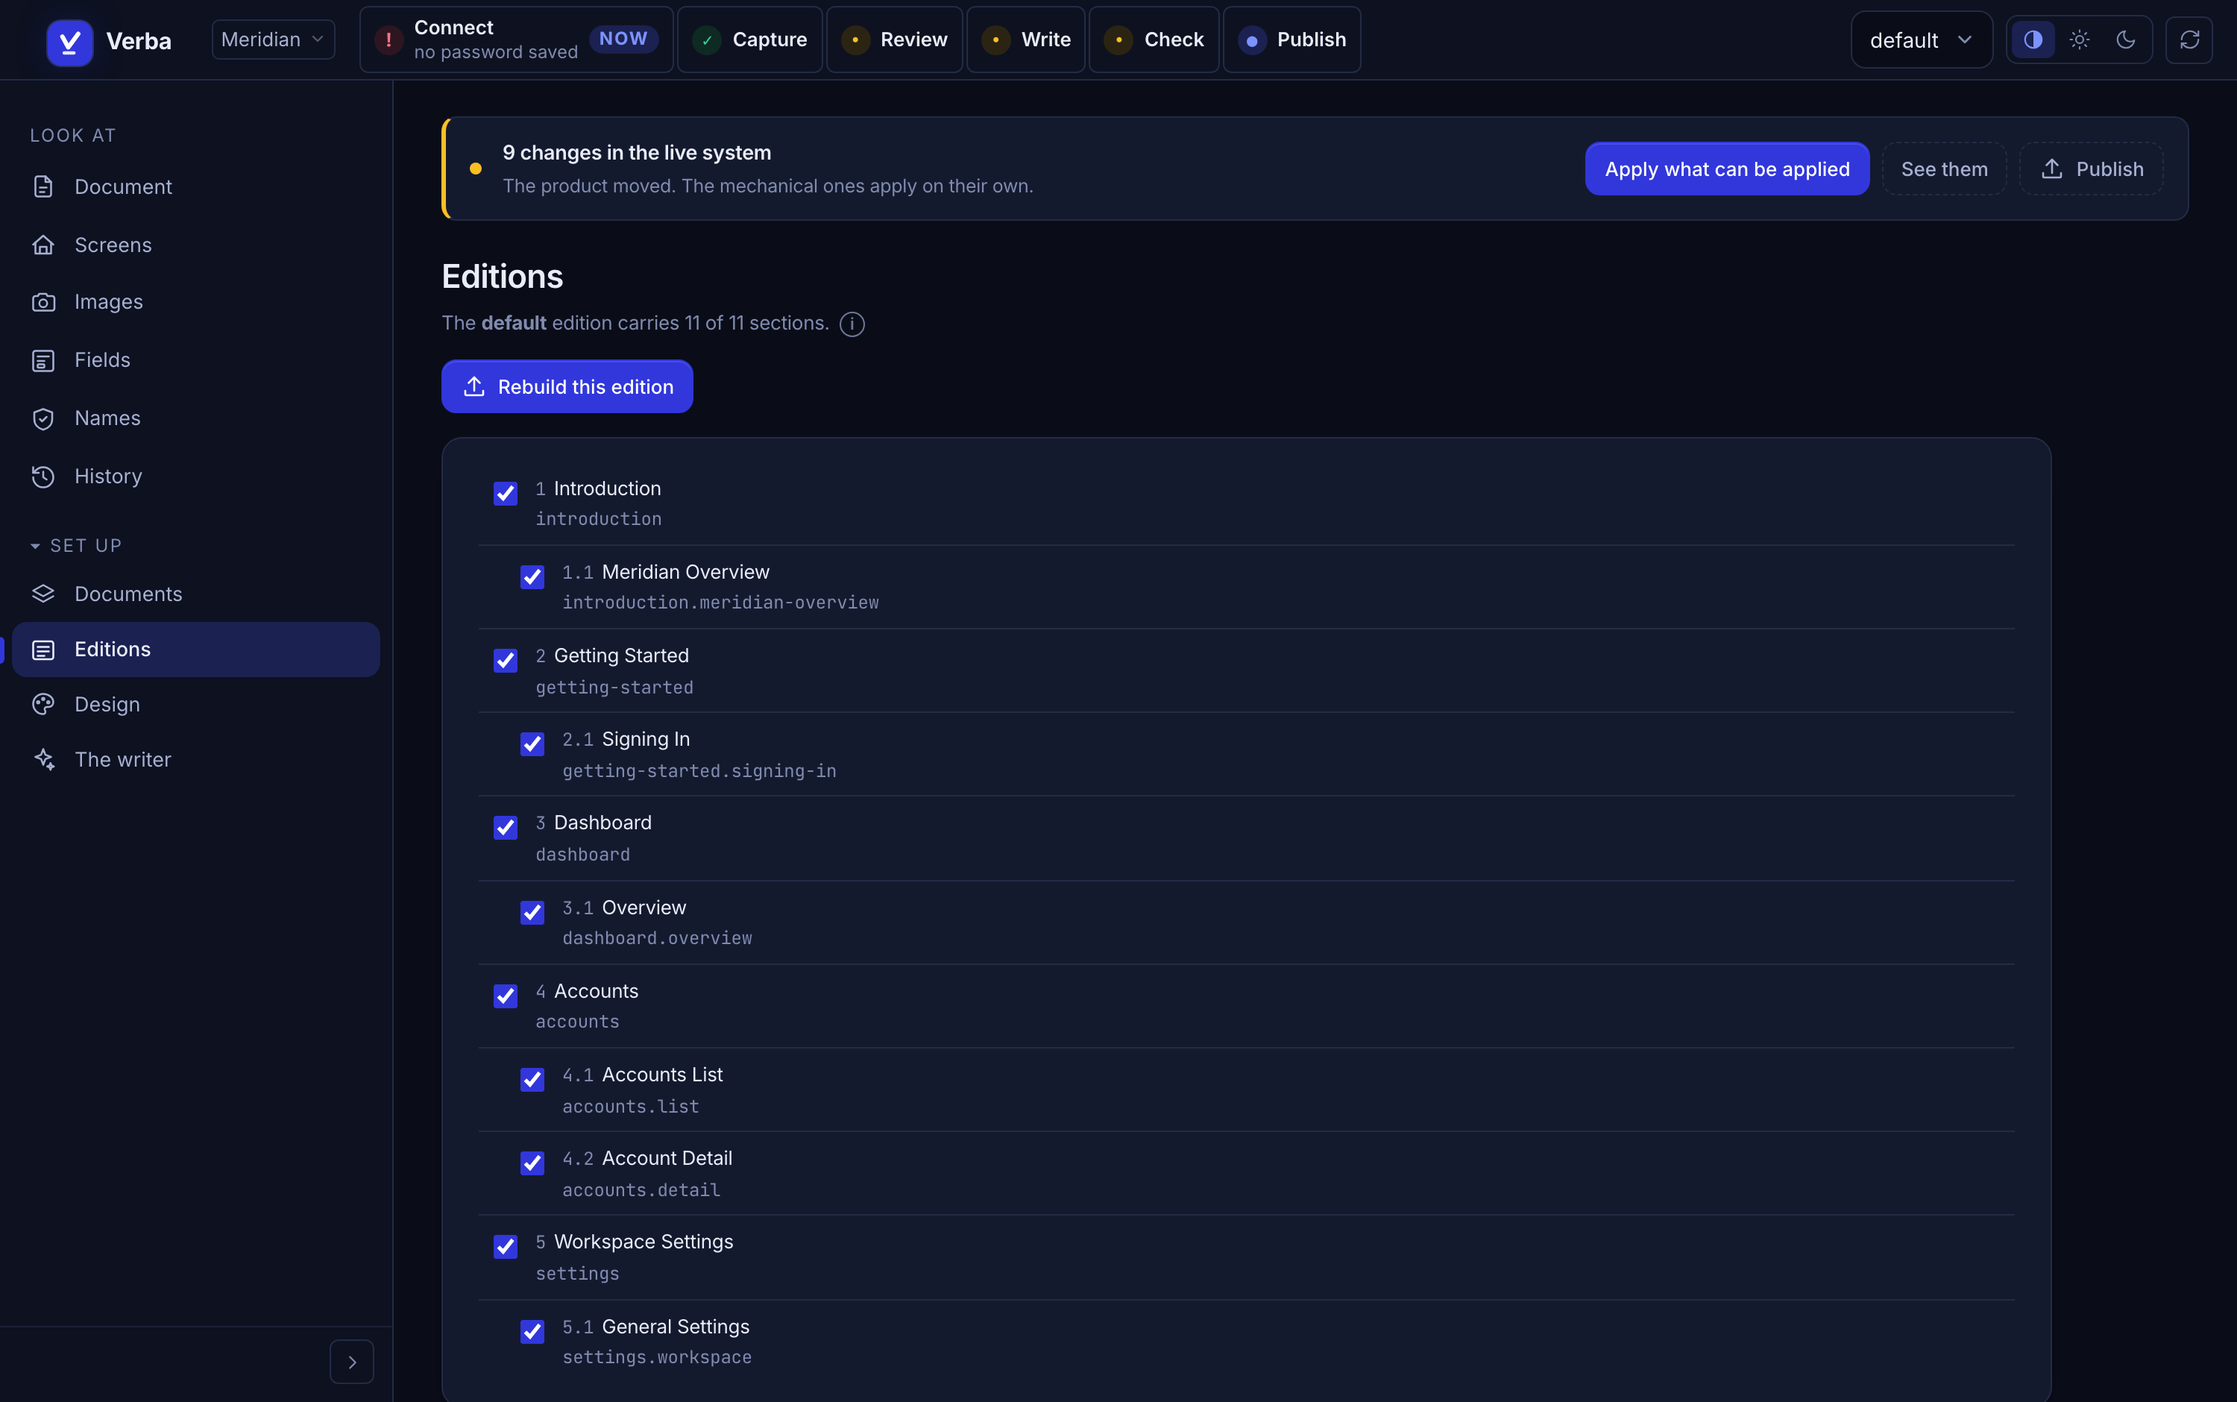
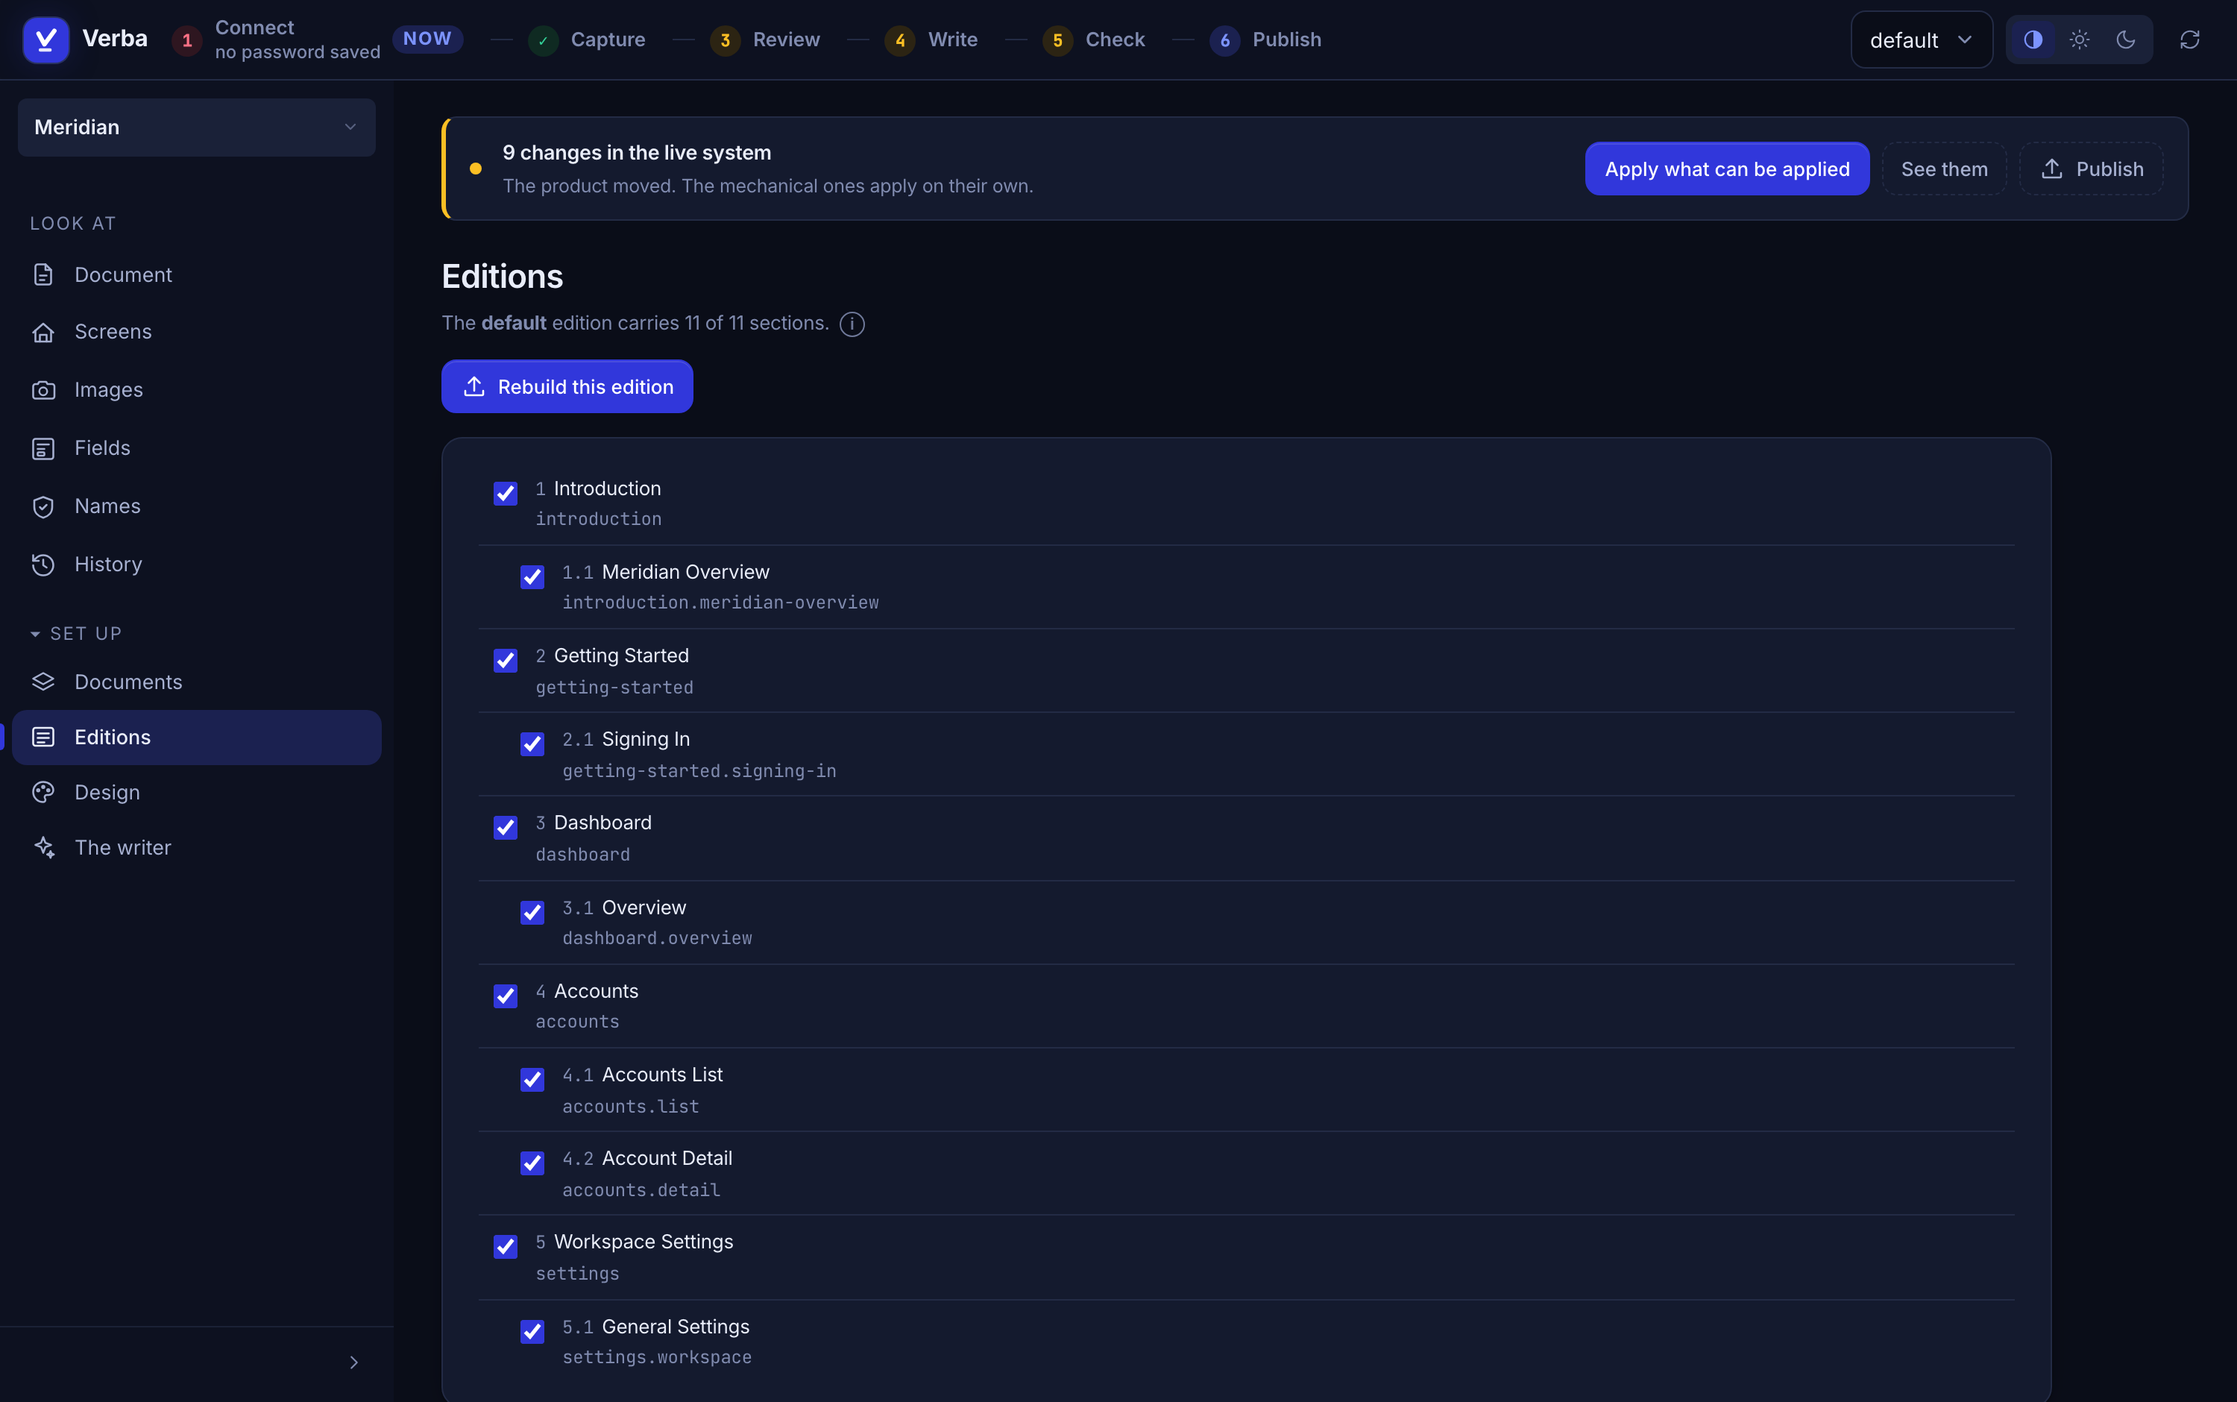
The header is a stepper, and most of the lines are gone
Four goes at the process nav before asking. Six bordered pills read as six
boxes; one bordered track round all six read as chrome. Both were the same
mistake, which is reaching for a container to say "these are controls" when the
content can say it instead.

A stepper says it. A tick for what is done, a number for what is not, joined by
a line: the marks say how far along you are and the line says these are in an
order, both of which are true and neither of which needs a border.

Borders were being spent on everything: the step track, the document button,
every icon button, the appearance control, inside a header that was itself
outlined, beside a rail that was outlined. They now separate the regions that
genuinely are separate, and small controls use a filled surface.

Three bugs found while doing it, all of them mine:

`#docTitle` still carried the styling from when the switcher lived in the
masthead. An id beats any number of classes, so it silently overrode the rail
styling and the rule that hides the switcher when the rail is folded, which is
why "Rise" was leaking out of a 46px strip.

`.brand` was the rail's rule, with the rail's 16px padding, making the header's
brand 58px tall inside a 54px bar.

And every `.app.folded` rule was written for a rail that carried the brand and
the process. They reach into the header now, which is why folding stacked the
appearance buttons vertically and wrapped the wordmark. Scoped to the rail.
[…]

Changed region(s): [[0.0, 0.0, 0.589, 0.0617], [0.0, 0.4011, 0.186, 0.617], [0.0, 0.1234, 0.062, 0.3702]]

diff --git a/verba/console/static/app.css b/verba/console/static/app.css
@@ -159,7 +159,9 @@ aside {
   min-height: 0; min-width: 0;
 }
 
-.brand {
+/* The rail's old brand block. The header has its own, and this padding was
+   making it 58px tall inside a 54px bar. */
+aside .brand {
   display: flex; align-items: center; gap: var(--s3);
   padding: var(--s4) var(--s4) var(--s3);
 }
@@ -650,8 +652,8 @@ aside { position: relative; }
 .brand .fold:hover { color: var(--brand-lift); background: var(--panel); }
 .brand .fold .ic { transition: rotate 200ms var(--ease); }
 
-.app.folded { grid-template-columns: 56px minmax(0, 1fr); }
-.app.folded .brand .who,
+/* superseded below: folding now leaves a 46px strip carrying the way back */
+aside.folded-none,
 .app.folded .edition,
 .app.folded .tree,
 .app.folded .nav button span,
@@ -661,12 +663,12 @@ aside { position: relative; }
    fold button to the top right corner puts it straight on top of the logo,
    because there is no corner left to pin it to. Stack instead: mark, then the
    control beneath it. */
-.app.folded .brand {
+aside .brand-unused {
   flex-direction: column; gap: var(--s2);
   padding: var(--s3) 0 var(--s2); justify-content: center;
 }
-.app.folded .brand .fold { position: static; margin: 0; }
-.app.folded .brand .fold .ic { rotate: 180deg; }
+aside .brand-unused .fold { position: static; margin: 0; }
+aside .brand-unused .fold .ic { rotate: 180deg; }
 .app.folded .nav { padding: 0 var(--s2) var(--s3); }
 .app.folded .nav button { justify-content: center; padding: 9px 0; }
 .app.folded .nav button.on::before { left: -8px; }
@@ -879,8 +881,6 @@ label:has(> input[type="checkbox"]) {
    Which system you are documenting. A document is a folder; this is the list of
    where they are. */
 .modal.wide{max-width:620px}
-#docTitle{cursor:pointer}
-#docTitle:hover{color:var(--text)}
 .docs{display:flex;flex-direction:column;gap:6px;margin-top:14px;
   max-height:340px;overflow-y:auto}
 .docrow{display:flex;align-items:center;gap:12px;width:100%;text-align:left;
@@ -900,16 +900,6 @@ label:has(> input[type="checkbox"]) {
 /* the document switcher in the masthead: a control, not a caption */
 /* One line, and it must stay one line: a product name wrapping under its own
    section count reads as two broken labels rather than one control. */
-#docTitle{display:flex;align-items:center;gap:5px;cursor:pointer;
-  padding:2px 5px;margin-left:-5px;border-radius:5px;min-width:0;
-  white-space:nowrap;overflow:hidden;
-  transition:background var(--fast),color var(--fast)}
-#docTitle .dnow{overflow:hidden;text-overflow:ellipsis}
-#docTitle:hover,#docTitle:focus-visible{background:var(--brand-soft);color:var(--text)}
-#docTitle .dnow{font-weight:600;color:var(--text-2)}
-#docTitle .dsep{opacity:.5}
-.dchev{width:12px;height:12px;flex:none;opacity:.7;margin-left:1px}
-#docTitle:hover .dchev{opacity:1}
 /* in the full view each row carries its own actions */
 .docrow .row{margin-left:auto;flex:none;gap:6px}
 
@@ -943,8 +933,8 @@ label:has(> input[type="checkbox"]) {
   text-transform:uppercase;letter-spacing:.09em;color:var(--brand-lift);
   background:var(--brand-soft);padding:1px 7px;border-radius:20px;line-height:1.4}
 /* the folded rail: numbers only, still in order */
-.app.folded .stepbody,.app.folded .younow{display:none}
-.app.folded .nav .step{justify-content:center;padding:8px 0}
+.app.folded aside .stepbody,.app.folded aside .younow{display:none}
+.app.folded aside .nav .step{justify-content:center;padding:8px 0}
 
 /* a small labelled grid, for "what the last capture found" */
 /* Two columns at most. Four label-and-value pairs strung across one row read
@@ -966,7 +956,7 @@ label:has(> input[type="checkbox"]) {
 .scheme button:hover{color:var(--text-2);background:var(--panel-2)}
 .scheme button.on{background:var(--brand-soft);color:var(--brand-lift)}
 .scheme svg{width:15px;height:15px}
-.app.folded .scheme{flex-direction:column}
+/* the appearance control lives in the header now, and the header does not fold */
 
 /* the palette the document prints in */
 .themes{display:grid;grid-template-columns:repeat(auto-fill,minmax(212px,1fr));
@@ -1057,7 +1047,7 @@ h3.sub{font-size:14px;font-weight:600;margin:24px 0 8px}
 .stepord{flex:none;font-family:var(--mono);font-size:12px;color:var(--text-3);
   opacity:.65;min-width:9px;margin-top:2px}
 .step.on .stepord{opacity:.9}
-.app.folded .stepord{display:none}
+.app.folded aside .stepord{display:none}
 
 /* ── the header ────────────────────────────────────────────────────────────
    Identity on the left, the process across the middle, the controls you touch
@@ -1083,19 +1073,24 @@ header.top .mark {
 header.top .wordmark {
   font-size: 15.5px; font-weight: 700; letter-spacing: -.015em;
 }
-header.top .doc {
+/* Which document, at the top of the rail: it belongs with the things that
+   change when you switch, not beside the mark that never does. */
+aside > .doc {
   display: flex; align-items: center; gap: 6px;
-  padding: 5px 10px; border-radius: var(--r1);
+  margin: var(--s3) var(--s3) var(--s2);
+  padding: 8px 10px; border-radius: var(--r1);
   border: 1px solid var(--line); background: var(--surface);
-  color: var(--text-2); font: inherit; font-size: 13px; cursor: pointer;
-  max-width: 230px; white-space: nowrap; overflow: hidden;
-  transition: border-color var(--fast), color var(--fast);
+  color: var(--text); font: inherit; font-size: 13.5px; font-weight: 600;
+  cursor: pointer; white-space: nowrap; overflow: hidden;
+  transition: border-color var(--fast), background var(--fast);
 }
-header.top .doc:hover { border-color: var(--brand-lift); color: var(--text); }
-header.top .doc::after {
+aside > .doc:hover { border-color: var(--brand-lift); background: var(--panel-2); }
+aside > .doc::after {
   content: ""; width: 12px; height: 12px; flex: none; opacity: .6;
+  margin-left: auto;
   background: var(--chevron) center/12px no-repeat;
 }
+.app.folded aside > .doc { display: none; }
 header.top .tools { flex: none; display: flex; align-items: center; gap: 8px; }
 header.top .tools select { min-width: 96px; }
 header.top .scheme { margin: 0; padding: 3px; }
@@ -1115,7 +1110,9 @@ header.top .scheme button { padding: 5px 7px; }
    header into a column six rows tall that fell through the page. */
 .flow {
   display: flex; align-items: stretch; gap: 2px;
-  flex: 1 1 auto; min-width: 0;
+  /* shrink-to-fit, not fill: a track stretched to the width of the window is a
+     bar with six things at one end of it and a lot of nothing after Publish */
+  flex: 0 1 auto; min-width: 0; margin-right: auto;
   overflow-x: auto; scrollbar-width: none;
 }
 .flow::-webkit-scrollbar { display: none; }
@@ -1123,23 +1120,48 @@ header.top .scheme button { padding: 5px 7px; }
    and no background these read as plain text until you happened to hover one,
    and an interface that only admits to being clickable once you are already
    pointing at it has told you nothing. */
+/* A stepper: a tick for what is done, a number for what is not, joined by a
+   line so it reads as a sequence rather than as a menu of six equal things.
+
+   Three earlier attempts put a box round each step, then round all six. Both
+   read as chrome. A stepper carries its own meaning: the marks say how far
+   along you are and the line says these are in an order, which is true, and
+   neither needs a border to say it. */
 .flow .step {
-  display: flex; align-items: center; gap: 7px;
-  padding: 6px 9px; border-radius: var(--r1);
-  border: 1px solid var(--line); background: var(--surface); color: inherit;
-  font: inherit; cursor: pointer; white-space: nowrap;
-  transition: background var(--fast), border-color var(--fast),
-              transform var(--fast);
+  display: flex; align-items: center; gap: 8px;
+  padding: 0 4px 0 0; border: 0; background: none;
+  color: var(--text-3); font: inherit; font-size: 13.5px; font-weight: 500;
+  cursor: pointer; white-space: nowrap; position: relative;
+  transition: color var(--fast);
 }
-.flow .step:hover {
-  background: var(--panel-2); border-color: var(--brand-lift);
+/* the line between one step and the next */
+.flow .step:not(:last-child)::after {
+  content: ""; width: 15px; height: 1px; flex: none;
+  background: var(--line); margin: 0 4px 0 10px;
 }
-.flow .step:active { transform: translateY(1px); }
-.flow .step:focus-visible { outline: 2px solid var(--brand-lift); outline-offset: 1px; }
-.flow .step.on {
-  background: var(--brand-soft); border-color: var(--brand-lift);
-  box-shadow: inset 0 0 0 1px var(--brand-lift);
+.flow .step:hover { color: var(--text-2); }
+.flow .step:hover .stepn { border-color: var(--brand-lift); }
+.flow .step:focus-visible { outline: 2px solid var(--brand-lift); outline-offset: 3px;
+  border-radius: 6px; }
+.flow .step.on { color: var(--text); }
+.flow .step.on .stept { font-weight: 650; }
+
+/* the mark. Its colour is the step's state, and it never carries a number once
+   the step is done, because then the number is not the useful thing about it. */
+.flow .stepn {
+  width: 21px; height: 21px; flex: none; border-radius: 50%;
+  display: grid; place-items: center;
+  font: 700 11px var(--mono); font-variant-numeric: tabular-nums;
+  background: var(--panel-2); color: var(--text-3);
+  border: 1px solid transparent;
+  transition: background var(--fast), color var(--fast), border-color var(--fast);
 }
+.flow .stepn.done      { background: var(--ok-soft);    color: var(--ok); }
+.flow .stepn.attention { background: var(--warn-soft);  color: var(--warn); }
+.flow .stepn.blocked   { background: var(--bad-soft);   color: var(--bad); }
+.flow .stepn.ready     { background: var(--brand-soft); color: var(--brand-lift); }
+.flow .step.on .stepn  { background: var(--brand); color: #fff; }
+
 .flow .stepbody { display: flex; flex-direction: column; align-items: flex-start; gap: 0; }
 .flow .stept { font-size: 13px; font-weight: 550; line-height: 1.2; }
 .flow .steps-sub {
@@ -1196,3 +1218,26 @@ aside .nav { padding-top: var(--s3); }
 .app.folded .foldbtn svg { transform: rotate(180deg); }
 .icon-btn.on { background: var(--brand-soft); color: var(--brand-lift);
   border-color: var(--brand-lift); }
+
+/* ── fewer lines ───────────────────────────────────────────────────────────
+   A border is a strong signal and this interface was spending it on
+   everything: the step track, the document button, every icon button, the
+   appearance control, all of them outlined, inside a header that is itself
+   outlined, beside a rail that is outlined. Six boxes in a row stop reading as
+   six controls and start reading as a grid.
+
+   Borders now separate the three regions that genuinely are separate, and the
+   small controls use a filled surface instead. A fill says "this is a thing"
+   just as clearly and does not draw a line round every one of them. */
+/* the stepper has no container: see the block above */
+aside > .doc { border-color: transparent; background: var(--panel-2); }
+aside > .doc:hover { border-color: transparent; background: var(--brand-soft); }
+.icon-btn, .foldbtn { border-color: transparent; background: transparent; }
+.icon-btn:hover, .foldbtn:hover {
+  border-color: transparent; background: var(--panel-2); color: var(--text);
+}
+header.top .scheme { border-color: transparent; background: var(--panel-2); }
+
+/* the rail no longer needs its own line: the header's is enough to say where
+   the chrome ends, and the rail sits on a different ground already */
+aside { border-right: 0; }

diff --git a/verba/console/static/app.js b/verba/console/static/app.js
@@ -436,14 +436,18 @@ function drawSteps() {
                            (st.id === here ? ' here' : ''));
     b.dataset.v = st.id;
     b.setAttribute('aria-current', view === st.id ? 'page' : 'false');
-    // Only the step with the work in it carries its line. Six captions across a
+    // A tick for what is done and a number for what is not. The number is the
+    // step's place in the sequence, which is the one thing a stepper is for,
+    // and it stops being a number the moment the step is finished.
+    //
+    // Only the step with the work in it carries its line: six captions across a
     // header is a paragraph nobody reads, and it pushed Publish off the end at
-    // any window narrower than a very wide one. The mark still says how each
-    // step stands, and hovering gives the words.
+    // any window narrower than a very wide one.
     const detail = (st.id === here || view === st.id)
       ? `<span class="steps-sub">${esc(s.line)}</span>` : '';
+    const inside = s.tone === 'done' ? '&#10003;' : String(st.n);
     b.innerHTML =
-      `<span class="stepn ${s.tone}">${STEP_MARK[s.tone] || ''}</span>` +
+      `<span class="stepn ${s.tone}">${inside}</span>` +
       `<span class="stepbody"><span class="stept">${esc(st.label)}</span>` +
       detail + `</span>`;
     b.title = `${st.label}: ${s.line}`;

diff --git a/verba/console/static/app.html b/verba/console/static/app.html
@@ -43,10 +43,6 @@
       <span class="wordmark">Verba</span>
     </a>
 
-    <button class="doc" id="docTitle" title="Switch document, or start a new one">
-      loading
-    </button>
-
     <nav class="flow" id="steps" aria-label="The document, step by step"></nav>
 
     <div class="tools">
@@ -61,6 +57,9 @@
   </header>
 
   <aside>
+    <button class="doc" id="docTitle" title="Switch document, or start a new one">
+      loading
+    </button>
     <!-- Contextual. The outline while you are writing, the places you look at
          and the things you set up otherwise. One job at a time. -->
     <nav class="nav" id="nav" aria-label="Elsewhere in the console"></nav>
